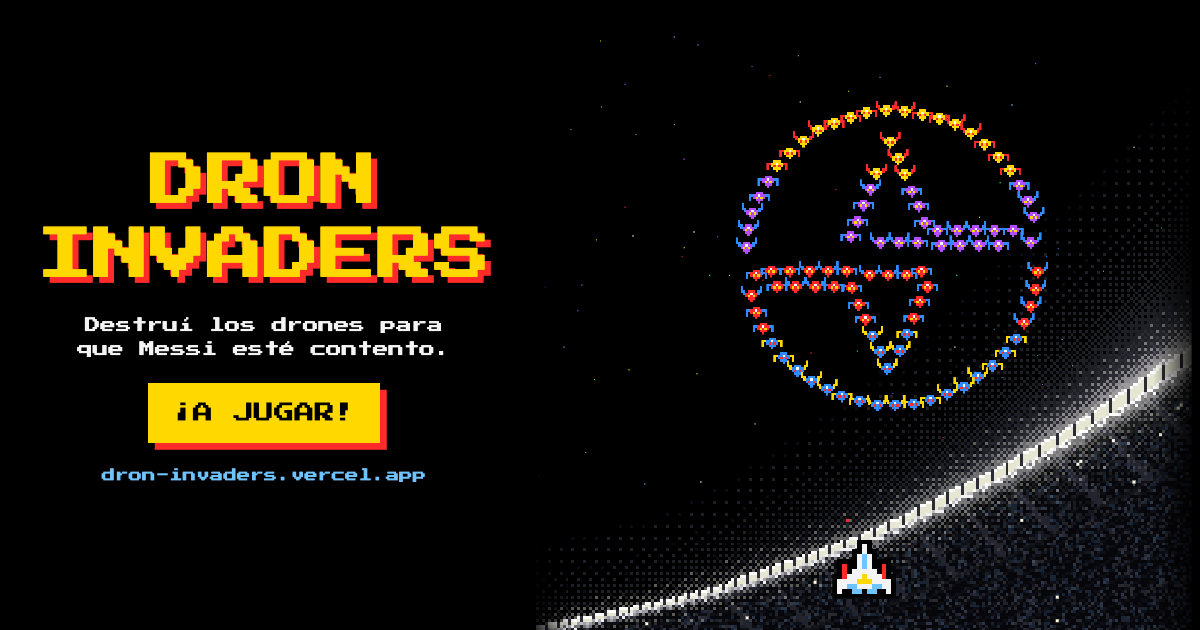
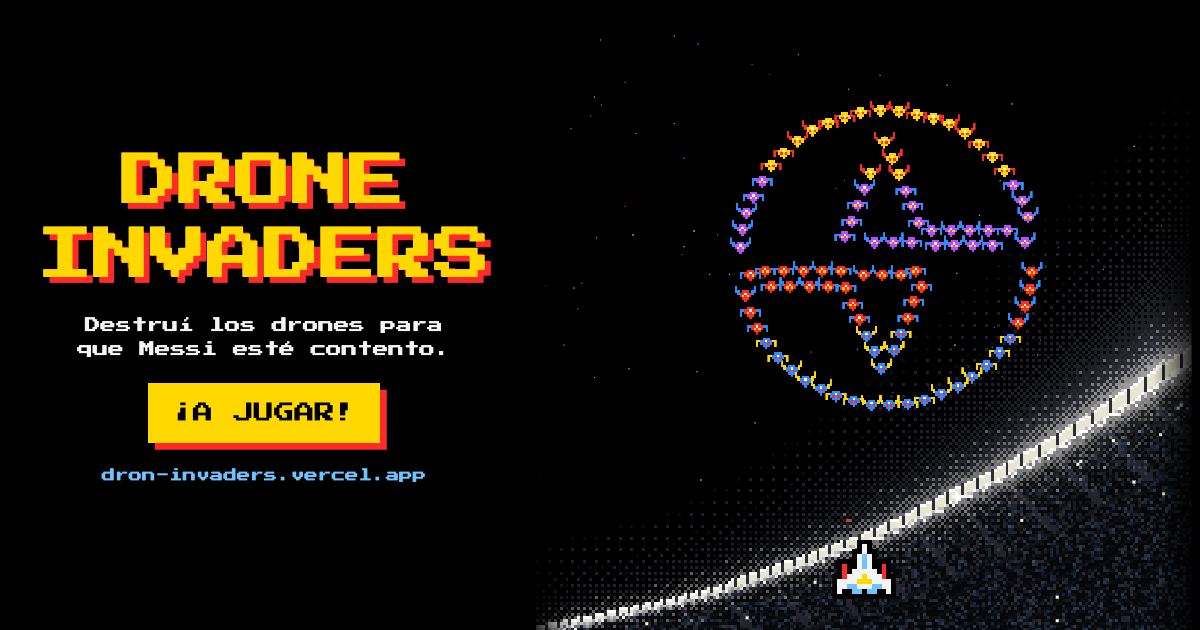
Rename the game to Drone Invaders
"Dron" -> "Drone" in the splash logo, page title, meta/Open Graph tags,
README, comments and the share-image generator; share images regenerated.
The dron-invaders.vercel.app domain is unchanged.

Changed region(s): [[0.5858, 0.1508, 0.8633, 0.6635], [0.0925, 0.2413, 0.3392, 0.3317], [0.7708, 0.4222, 0.8942, 0.6333]]

diff --git a/index.html b/index.html
@@ -4,19 +4,19 @@
 <meta charset="utf-8">
 <meta name="viewport" content="width=device-width, initial-scale=1, viewport-fit=cover">
 <meta name="theme-color" content="#000000">
-<meta name="description" content="Dron Invaders: un shooter arcade para bajar los drones del cielo del estadio.">
-<title>Dron Invaders</title>
+<meta name="description" content="Drone Invaders: un shooter arcade para bajar los drones del cielo del estadio.">
+<title>Drone Invaders</title>
 <!-- link previews (WhatsApp, X, Facebook, LinkedIn, Slack); images are generated by tools/covers.sh -->
 <meta property="og:type" content="website">
-<meta property="og:site_name" content="Dron Invaders">
+<meta property="og:site_name" content="Drone Invaders">
 <meta property="og:locale" content="es_AR">
 <meta property="og:url" content="https://dron-invaders.vercel.app/">
-<meta property="og:title" content="Dron Invaders">
+<meta property="og:title" content="Drone Invaders">
 <meta property="og:description" content="Shooter arcade 8-bit: destruí los drones para que Messi esté contento.">
 <meta property="og:image" content="https://dron-invaders.vercel.app/img/share/og.png">
 <meta property="og:image:width" content="1200">
 <meta property="og:image:height" content="630">
-<meta property="og:image:alt" content="Dron Invaders: logo arcade y drones en formación sobre el techo del estadio">
+<meta property="og:image:alt" content="Drone Invaders: logo arcade y drones en formación sobre el techo del estadio">
 <meta name="twitter:card" content="summary_large_image">
 <link rel="preconnect" href="https://fonts.googleapis.com">
 <link rel="stylesheet" href="https://fonts.googleapis.com/css2?family=Press+Start+2P&display=swap">
@@ -97,7 +97,7 @@ canvas{display:block;touch-action:none;cursor:crosshair;image-rendering:pixelate
   <div class="screen" id="screen">
     <canvas id="game" aria-label="Juego arcade: derribá los drones"></canvas>
     <div class="overlay" id="ovStart">
-      <h1>DRON<br>INVADERS</h1>
+      <h1>DRONE<br>INVADERS</h1>
       <p>Destruí los drones para que Messi esté contento.</p>
       <div class="table" id="ptsTable">
         <span class="cap">TABLA DE PUNTOS</span>

diff --git a/tools/covers.html b/tools/covers.html
@@ -2,7 +2,7 @@
 <html lang="es">
 <head>
 <meta charset="utf-8">
-<title>Dron Invaders: covers</title>
+<title>Drone Invaders: covers</title>
 <link rel="stylesheet" href="https://fonts.googleapis.com/css2?family=Press+Start+2P&display=swap">
 <style>
 /* Social images generator: the live game scene in cover mode (index.html?cover: bigger formation and ship, no HUD) beside the logo.
@@ -24,12 +24,12 @@ html,body{margin:0;background:var(--black);overflow:hidden}
 <body>
 <div class="cover" id="cover">
   <div class="brand">
-    <h1>DRON<br>INVADERS</h1>
+    <h1>DRONE<br>INVADERS</h1>
     <p>Destruí los drones para que Messi esté contento.</p>
     <span class="cta">¡A JUGAR!</span>
     <span class="url">dron-invaders.vercel.app</span>
   </div>
-  <div class="game" id="game"><iframe id="frame" title="Dron Invaders"></iframe></div>
+  <div class="game" id="game"><iframe id="frame" title="Drone Invaders"></iframe></div>
 </div>
 <script>
 const q=new URLSearchParams(location.search),w=+q.get('w')||1200,h=+q.get('h')||630;

diff --git a/api/scores.js b/api/scores.js
@@ -1,4 +1,4 @@
-// Global leaderboard for Dron Invaders, stored in Upstash Redis (add it from the Vercel Marketplace;
+// Global leaderboard for Drone Invaders, stored in Upstash Redis (add it from the Vercel Marketplace;
 // it sets KV_REST_API_URL / KV_REST_API_TOKEN). Talks to Upstash's REST API, so no dependencies.
 //   GET  /api/scores                    -> { top: [{ name, score }] }
 //   POST /api/scores { name, score }    -> { top, rank }   (rank is 1-based, null if outside the kept list)

diff --git a/README.md b/README.md
@@ -1,4 +1,4 @@
-# Dron Invaders
+# Drone Invaders
 
 Shooter arcade estilo años 80: bajá los drones que forman una figura sobre el techo del estadio.
 
